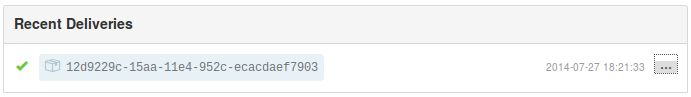
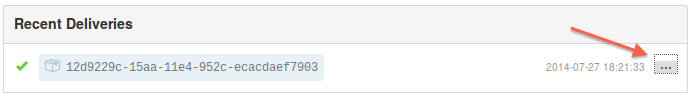
update Docs a bit

Changed region(s): [[0.8205, 0.2784, 0.9421, 0.6186]]

diff --git a/Zikula/Module/ExtensionLibraryModule/Resources/docs/webhookGuide.md b/Zikula/Module/ExtensionLibraryModule/Resources/docs/webhookGuide.md
@@ -21,17 +21,19 @@ Fill out the form exactly as shown below, and click `Add webhook`
 
 ![add webhook form][img4]
 
-###Step 5
+###Step 5 - Finished!
 When finished it should look like this:
 
 ![webhook list][img5]
 
-###Step 6
-To make sure everything worked, click on the webhook once again and scroll down. You should see something like this:
+###Step 6 - Confirmation
+After pushing a Tag, make sure everything worked by clicking on the webhook once again and scroll down. You should see
+something like this:
 
 ![webhook recent deliveries][img6]
 
-Click on the three little dots at the right hand side and then on the `Response` tab. You're done if it says `Ping
-event received` at the bottom.
+Click on the three little dots at the right hand side and then on the `Response` tab. It worked correctly if it says
+`Ping event received` at the bottom. If it did not work correctly, the response will indicate what errors need to be
+corrected before another attempt.
 
-![webhook sdf][img7]
+![webhook response][img7]
